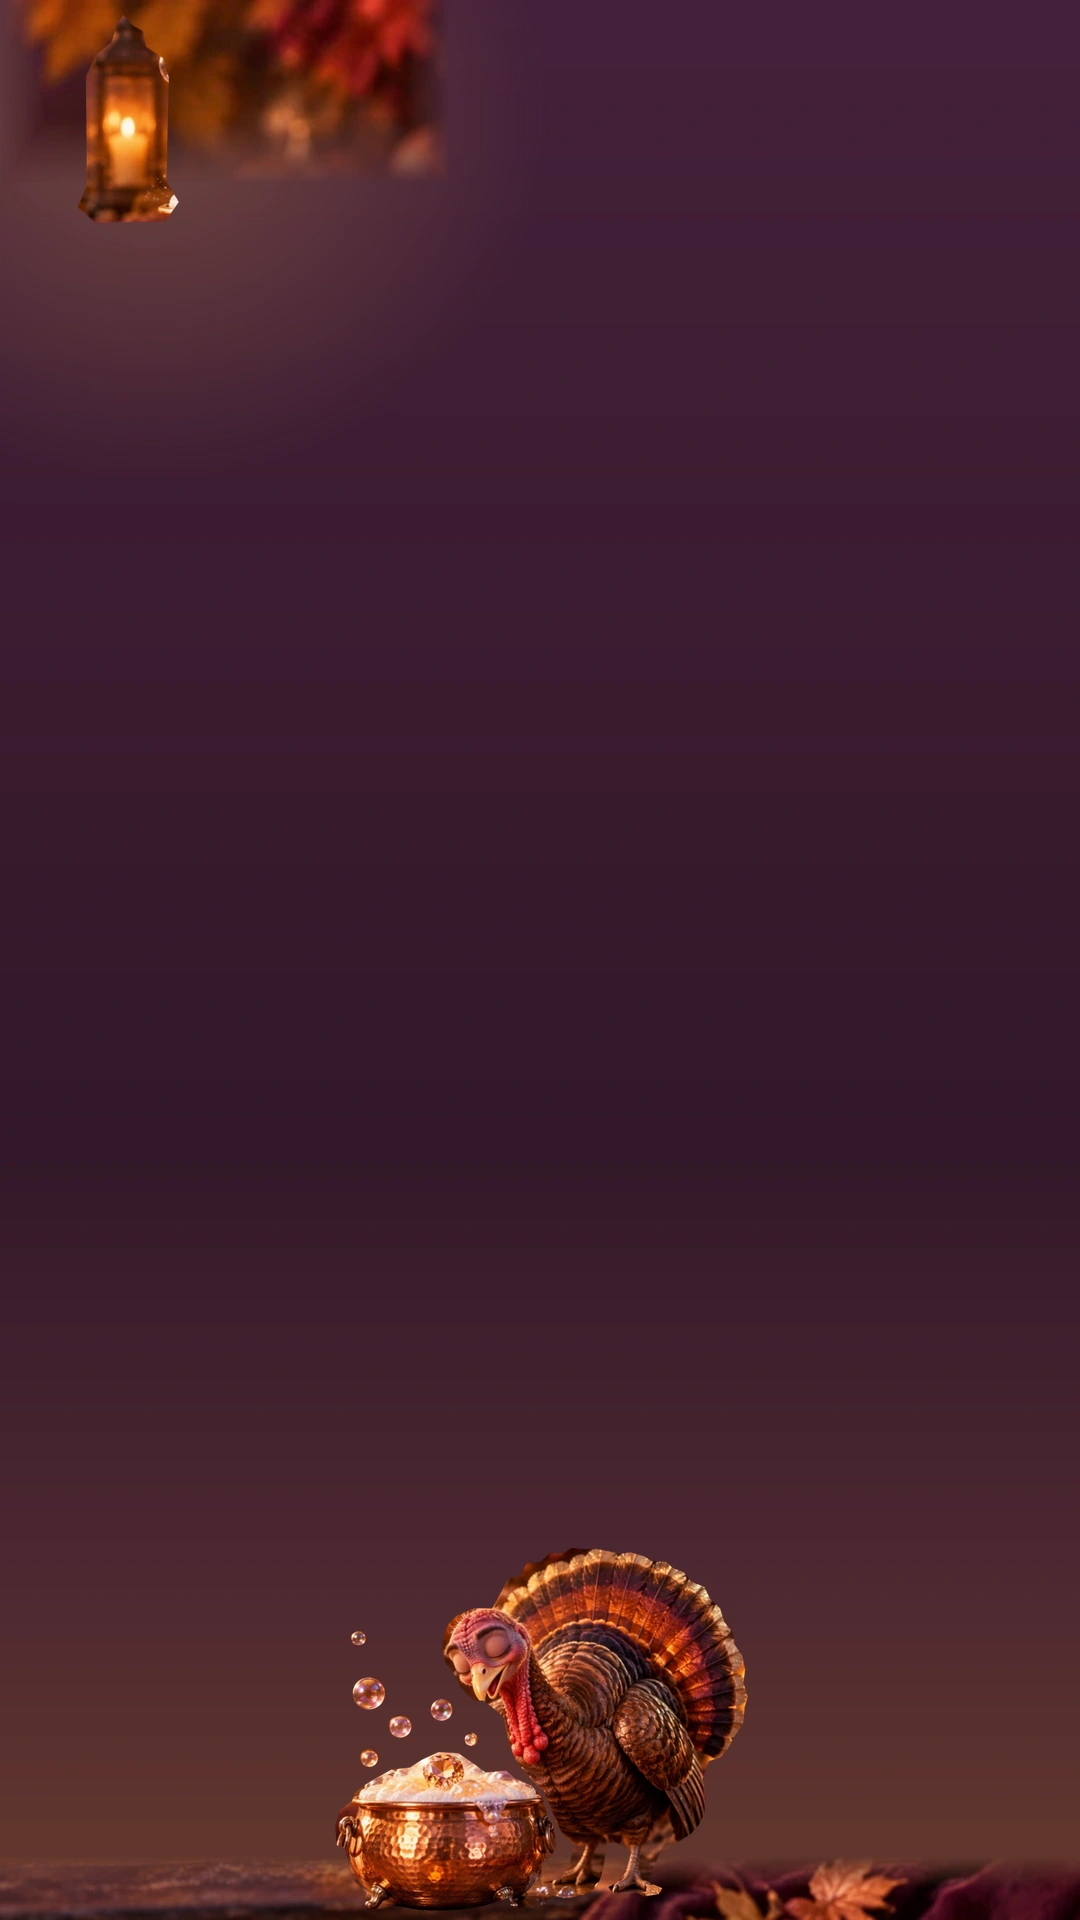
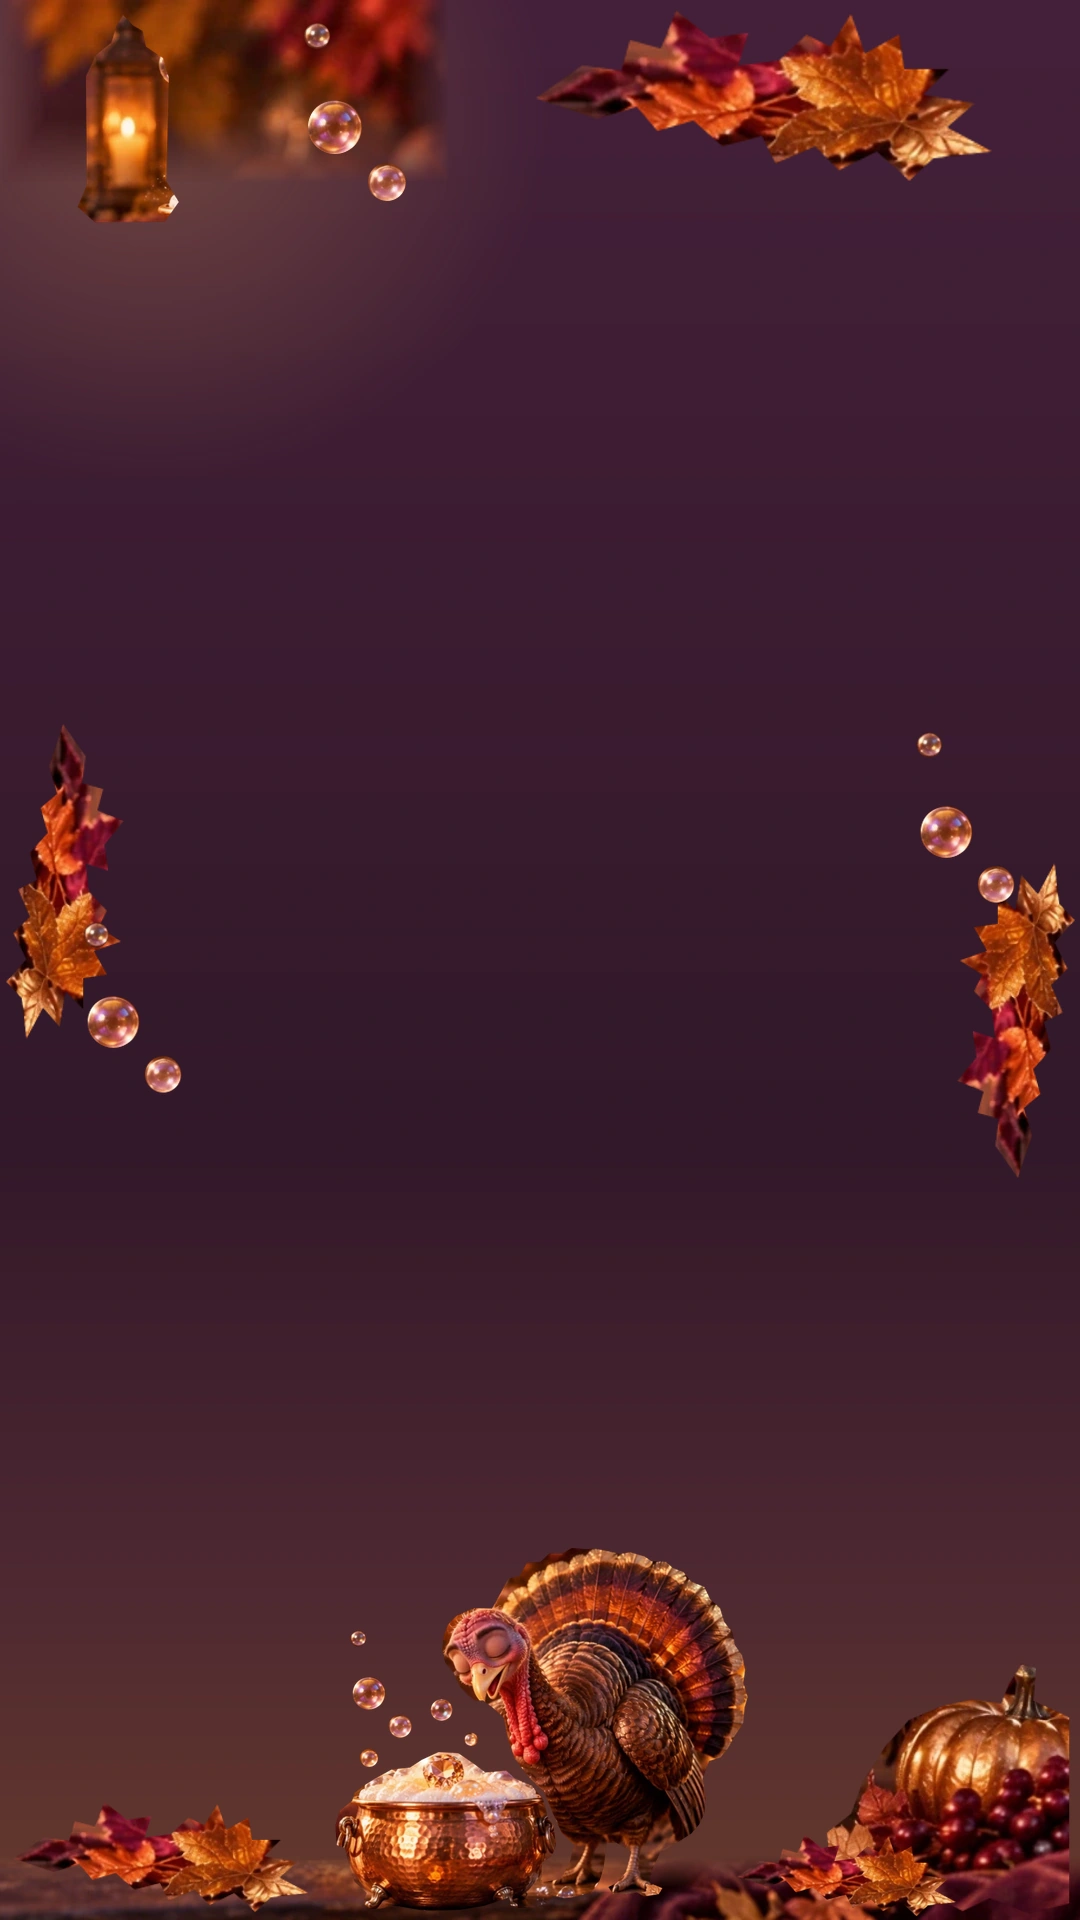
style(card-qr): enrich Thanksgiving plates with original-art borders

diff --git a/vault/2026-10-23-thanksgiving-flyer-plates-closeout.md b/vault/2026-10-23-thanksgiving-flyer-plates-closeout.md
@@ -42,3 +42,24 @@ database, Vercel deployment/alias or Live state was changed.
 
 The shared checkout's unrelated dirty work remains preserved. Commit only
 this scoped patch on the existing PR head with an isolated Git index.
+
+## Fuller-art revision after Louis's feedback
+
+Louis said both initial plates were too basic with too much unused room and
+suggested sharing original art between them. Those first-pass hashes above
+are superseded. The revision fills top, side and bottom-corner space with
+original-pixel maple borders, copper pumpkins/berries, bubbles and jewelry.
+Sharp maple foliage from Gobble is shared with Pumpkin Pie; its out-of-focus
+background leaf crop was rejected because it also caught part of the pie rim.
+No new subject was generated. The main turkey/pot and pie/cream/tray remain
+unchanged single subjects; only decorative motifs repeat. QR/text positions
+and the approved Fall Owl plate are unchanged.
+
+Current plate hashes:
[2 lines of base64/hex data omitted]
+
+All 19 focused tests pass again, actual sample flyers decode, repeated builds
+are byte-identical, and the updated comparison boards were visually inspected.
+These fuller revisions are for Louis's review; do not claim he has approved
+them yet. No merge, deploy, customer-theme or Live-state change.

diff --git a/vault/project-state.md b/vault/project-state.md
@@ -4181,3 +4181,7 @@ Louis selected high-perch option A for PR #151. The 1080×1920 plate uses the ap
 ## October 23, 2026 — Gobble & Fizz and Pumpkin Pie flyer plates
 
 Louis approved Fall Owl and requested matching QR backgrounds for Gobble & Fizz and Pumpkin Pie. Both now use dedicated 1080×1920 original-art plates with unchanged hero sources and centered QR. Combined focused suite: 19 passing tests; PNG/JPEG QR decoding and deterministic rebuilds verified. No Live merge/deploy or saved-theme changes. See `vault/2026-10-23-thanksgiving-flyer-plates-closeout.md`.
+
+## October 23, 2026 — Fuller Thanksgiving flyer artwork
+
+Louis found the first two Thanksgiving plates too basic and requested more original art, including shared accents. Revised Gobble and Pumpkin Pie now have original maple borders, bubbles, pumpkin/berry corners and jewelry across top/side/floor margins. Main subjects, centered QR, source heroes and approved Fall Owl are unchanged. All 19 focused tests pass; no Live merge/deploy or saved-theme changes. See the fuller-art revision in vault/2026-10-23-thanksgiving-flyer-plates-closeout.md.

diff --git a/vault/session-log.md b/vault/session-log.md
@@ -8016,3 +8016,7 @@ Louis selected high-perch option A for PR #151. The 1080×1920 plate uses the ap
 ## October 23, 2026 — Gobble & Fizz and Pumpkin Pie flyer plates
 
 Louis approved Fall Owl and requested matching QR backgrounds for Gobble & Fizz and Pumpkin Pie. Both now use dedicated 1080×1920 original-art plates with unchanged hero sources and centered QR. Combined focused suite: 19 passing tests; PNG/JPEG QR decoding and deterministic rebuilds verified. No Live merge/deploy or saved-theme changes. See `vault/2026-10-23-thanksgiving-flyer-plates-closeout.md`.
+
+## October 23, 2026 — Fuller Thanksgiving flyer artwork
+
+Louis found the first two Thanksgiving plates too basic and requested more original art, including shared accents. Revised Gobble and Pumpkin Pie now have original maple borders, bubbles, pumpkin/berry corners and jewelry across top/side/floor margins. Main subjects, centered QR, source heroes and approved Fall Owl are unchanged. All 19 focused tests pass; no Live merge/deploy or saved-theme changes. See the fuller-art revision in vault/2026-10-23-thanksgiving-flyer-plates-closeout.md.

diff --git a/scripts/card-qr/plate-sources/pie-please/README.md b/scripts/card-qr/plate-sources/pie-please/README.md
@@ -15,5 +15,11 @@ before rebuilding. No new pie/animal, landscape cover crop, duplicated scene,
 blur filter, provider call or rep-setting change is involved.
 
[3 lines of base64/hex data omitted]
 Identity and PNG/JPEG QR checks: `tests/thanksgiving-flyer-plates.test.ts`.
+
+Fuller-art revision: Louis requested more original artwork and authorized sharing
+art between the themes. Sharp maple foliage is shared from the approved Gobble
+hero at the top, sides and bottom-left; isolated ruby/amber jewelry comes from
+the Pumpkin Pie hero. The pie/cream/tray subject remains unchanged and appears
+once. Both source hashes remain guarded by the shared builder.

diff --git a/scripts/card-qr/plate-sources/gobble-and-fizz/README.md b/scripts/card-qr/plate-sources/gobble-and-fizz/README.md
@@ -14,5 +14,10 @@ before rebuilding. No new turkey, resized landscape cover, duplicated scene,
 blur filter, provider call or rep-setting change is involved.
 
[3 lines of base64/hex data omitted]
 Identity and PNG/JPEG QR checks: `tests/thanksgiving-flyer-plates.test.ts`.
+
+Fuller-art revision: original maple leaves now frame the top and side margins;
+original bubbles rise beside the QR, with the original copper pumpkin/berry
+cluster and additional leaves filling the bottom corners. These decorative
+motifs may repeat; the turkey and pot remain a single unchanged subject.
